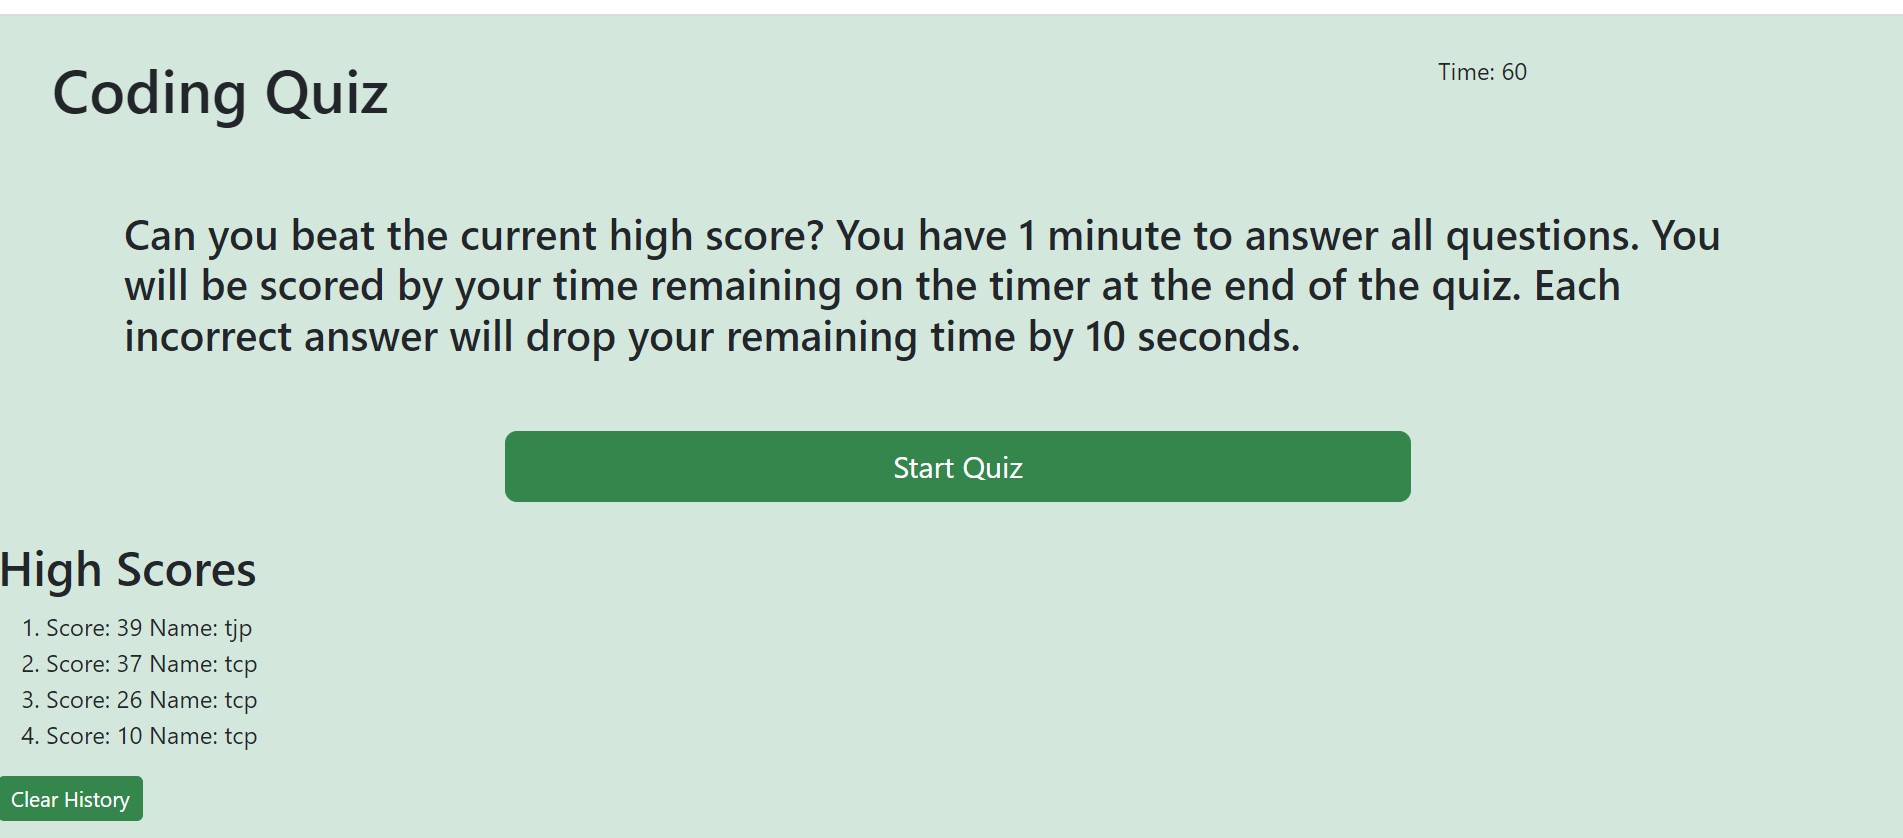
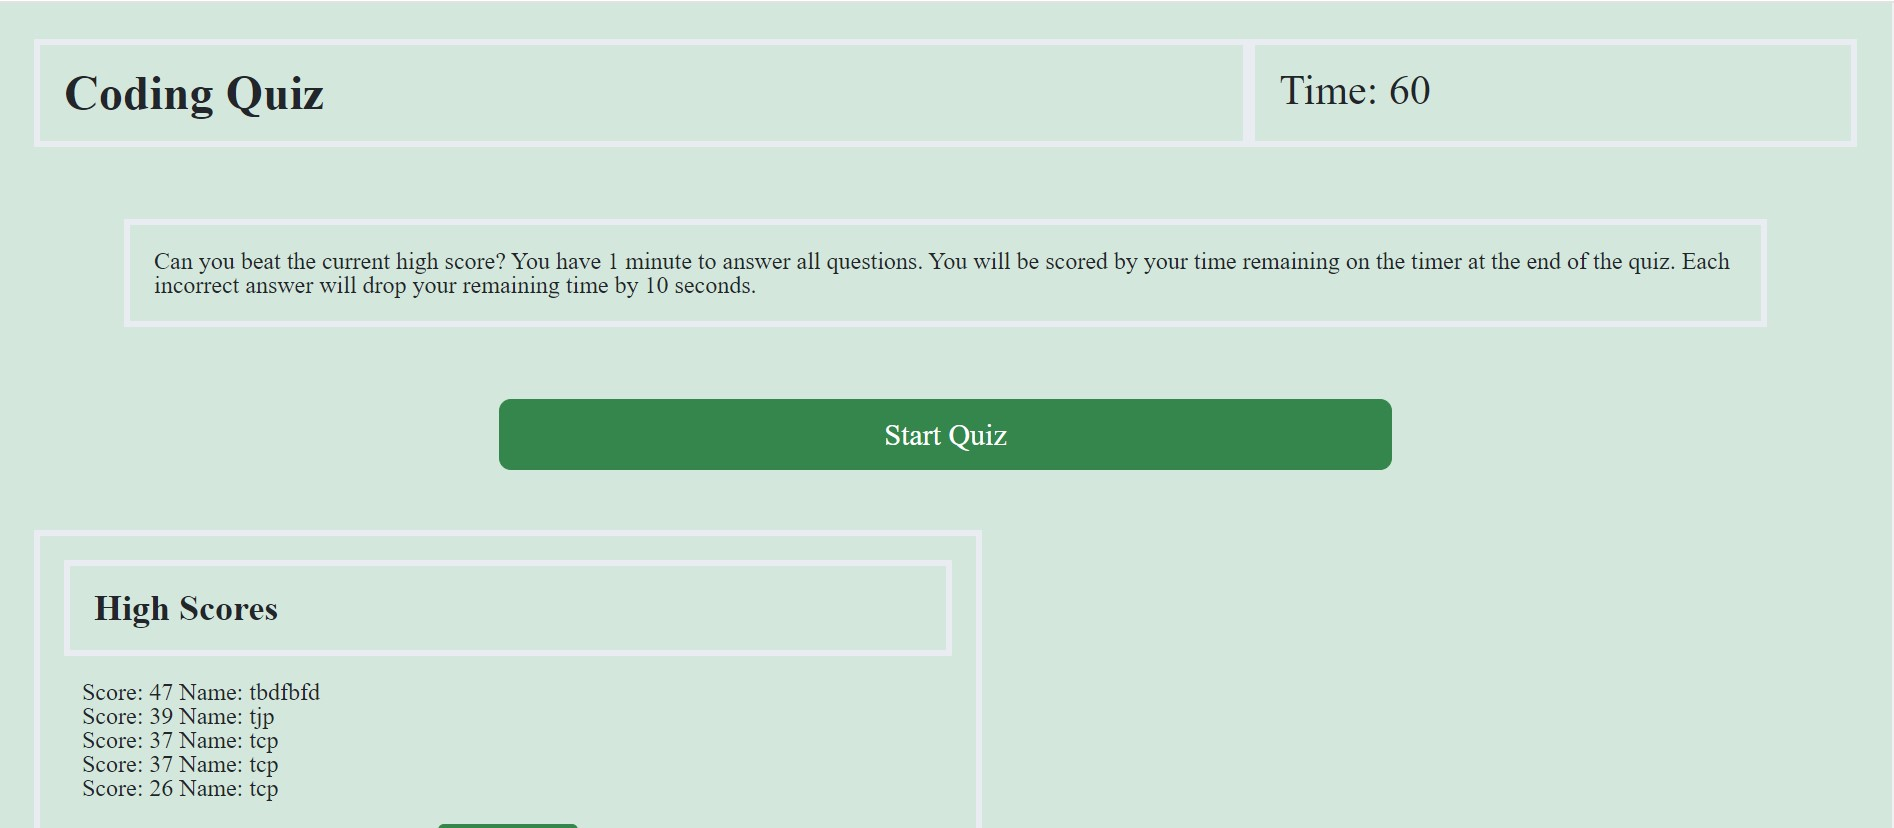
adjust styling, change README screenshot

diff --git a/index.html b/index.html
@@ -1,27 +1,30 @@
 <!DOCTYPE html>
 <html lang="en">
+
 <head>
     <meta charset="UTF-8">
     <meta name="viewport" content="width=device-width, initial-scale=1.0">
     <title>Web Coding Quiz</title>
-    <link href="https://cdn.jsdelivr.net/npm/bootstrap@5.3.1/dist/css/bootstrap.min.css" \
-    rel="stylesheet" integrity="sha384-4bw+/aepP/YC94hEpVNVgiZdgIC5+VKNBQNGCHeKRQN+PtmoHDEXuppvnDJzQIu9" 
-    crossorigin="anonymous">
+    <link href="https://cdn.jsdelivr.net/npm/bootstrap@5.3.3/dist/css/bootstrap.min.css" rel="stylesheet"
+        integrity="sha384-QWTKZyjpPEjISv5WaRU9OFeRpok6YctnYmDr5pNlyT2bRjXh0JMhjY6hW+ALEwIH" crossorigin="anonymous">
     <link rel="stylesheet" href="./assets/css/reset.css" />
     <link rel="stylesheet" href="./assets/css/style.css" />
 </head>
+
 <body class="bg-success-subtle">
     <header class="row justify-content-center m-4">
-        <h1 class="col-9">Coding Quiz</h1>
-    <div class="col-3 timer">Time: <span id="time">60</span></div>
-    <div id="start-screen">
-        <h3 class="m-5">Can you beat the current high score? You have 1 minute to answer all questions. 
-            You will be scored by your time remaining on the timer at the end of the quiz. Each incorrect answer will drop your remaining time by 10 seconds.</h3>
-        <div class="d-grid gap-2 col-6 mx-auto">
-            <button class="btn btn-success btn-lg" id="start">Start Quiz</button>
+        <h1 class="col-8 fs-2 fw-bolder border border-light-subtle border-4 p-3">Coding Quiz</h1>
+        <div class="col-4 fs-3 timer border border-light-subtle border-4 p-3">Time: <span id="time">60</span></div>
+        <div id="start-screen">
+            <h3 class="m-5 border border-light-subtle border-4 p-3">Can you beat the current high score? You have 1
+                minute to answer all questions.
+                You will be scored by your time remaining on the timer at the end of the quiz. Each incorrect answer
+                will drop your remaining time by 10 seconds.</h3>
+            <div class="d-grid gap-2 col-6 mx-auto">
+                <button class="btn btn-success btn-lg mb-3" id="start">Start Quiz</button>
+            </div>
         </div>
-    </div>
-</header>
+    </header>
     <div id="test" class="hide">
         <h2 id="questions"></h2>
 
@@ -30,27 +33,31 @@
             <button class="optionBtn col-6 shadow p-3 m-2 bg-body-tertiary rounded" id="optionTwo"></button>
             <button class="optionBtn col-6 shadow p-3 m-2 bg-body-tertiary rounded" id="optionThree"></button>
             <button class="optionBtn col-6 shadow p-3 m-2 bg-body-tertiary rounded" id="optionFour"></button>
-            <h3 id="right-answer"  class="hide">That's Correct!</h3>
+            <h3 id="right-answer" class="hide">That's Correct!</h3>
             <h3 id="wrong-answer" class="hide">Wrong Answer!</h3>
         </div>
-            
-           
+
+
     </div>
-    <div id="end-screen" class="hide">
-        <h2>Quiz Complete!</h2>
-        <p>Your final score is <span id="cur-score"></span></p>
+    <div id="end-screen" class="hide m-4">
+        <h2 class="fs-4 fw-bolder my-3">Quiz Complete!</h2>
+        <p class="m-3">Your final score is <span class="fs-3 fw-bolder" id="cur-score"></span></p>
 
-        </form>
-        <p>Enter initials: <input type="text" id="initial-input" placeholder="Initials"/></p>
-        <button class="btn btn-success btn-sm" id="submit-score-btn">Submit</button>
+        <div class="my-3 border border-light-subtle border-4 p-3 w-50">
+            <p>Enter initials: <input type="text" class="form-control" id="initial-input" placeholder="Initials" /></p>
+            <button class="btn btn-success btn-sm m-3" id="submit-score-btn">Submit</button>
+        </div>
     </div>
 
-    <div id="high-score-display">
-             <h2>High Scores</h2>            
-            <ol id="high-score-list"></ol>
-            <button class="btn btn-success btn-sm" id="clearHistoryBtn">Clear History</button>
-     </div>
+    <div class="row justify-content-center m-4 border border-light-subtle border-4 w-50 p-3" id="high-score-display">
+        <h2 class="fs-4 fw-bolder mb-3 border border-light-subtle border-4 p-3">High Scores</h2>
+        <ol id="high-score-list"></ol>
+        <button class="btn btn-success btn-sm col-auto mt-3" id="clearHistoryBtn">Clear History</button>
+    </div>
 
+    <script src="https://cdn.jsdelivr.net/npm/bootstrap@5.3.3/dist/js/bootstrap.bundle.min.js"
+        integrity="sha384-YvpcrYf0tY3lHB60NNkmXc5s9fDVZLESaAA55NDzOxhy9GkcIdslK1eN7N6jIeHz"
+        crossorigin="anonymous"></script>
     <script src="./assets/js/script.js"></script>
 </body>
 
